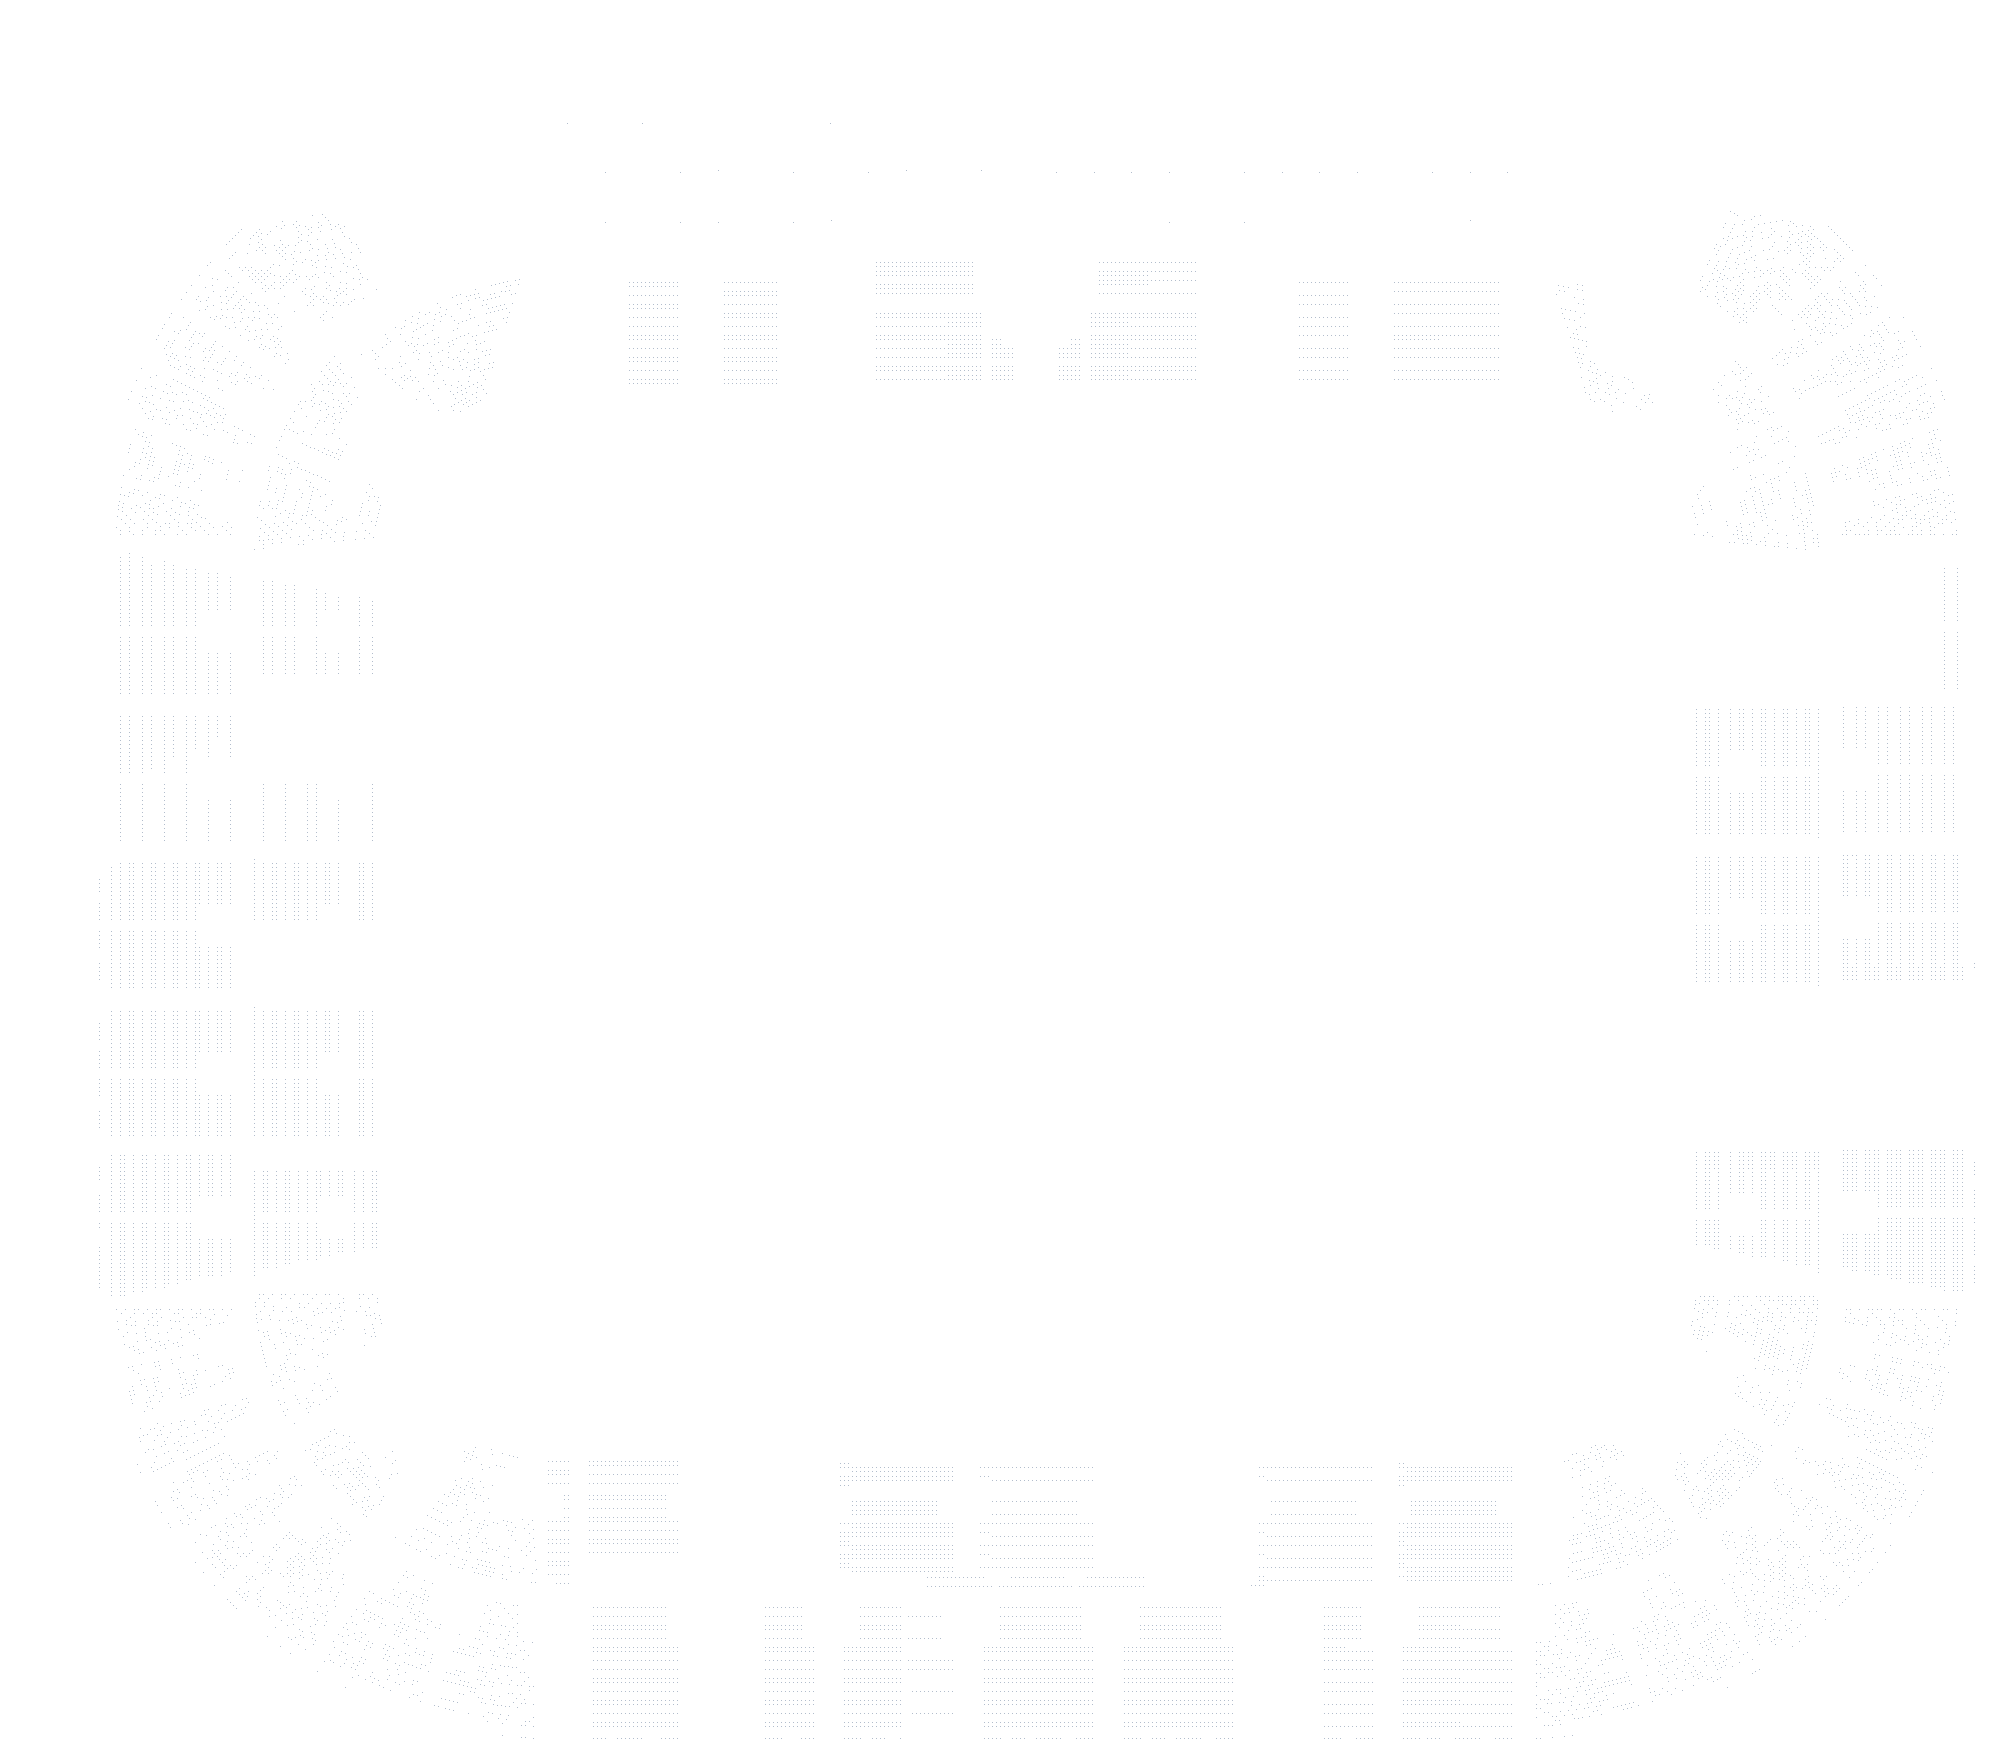
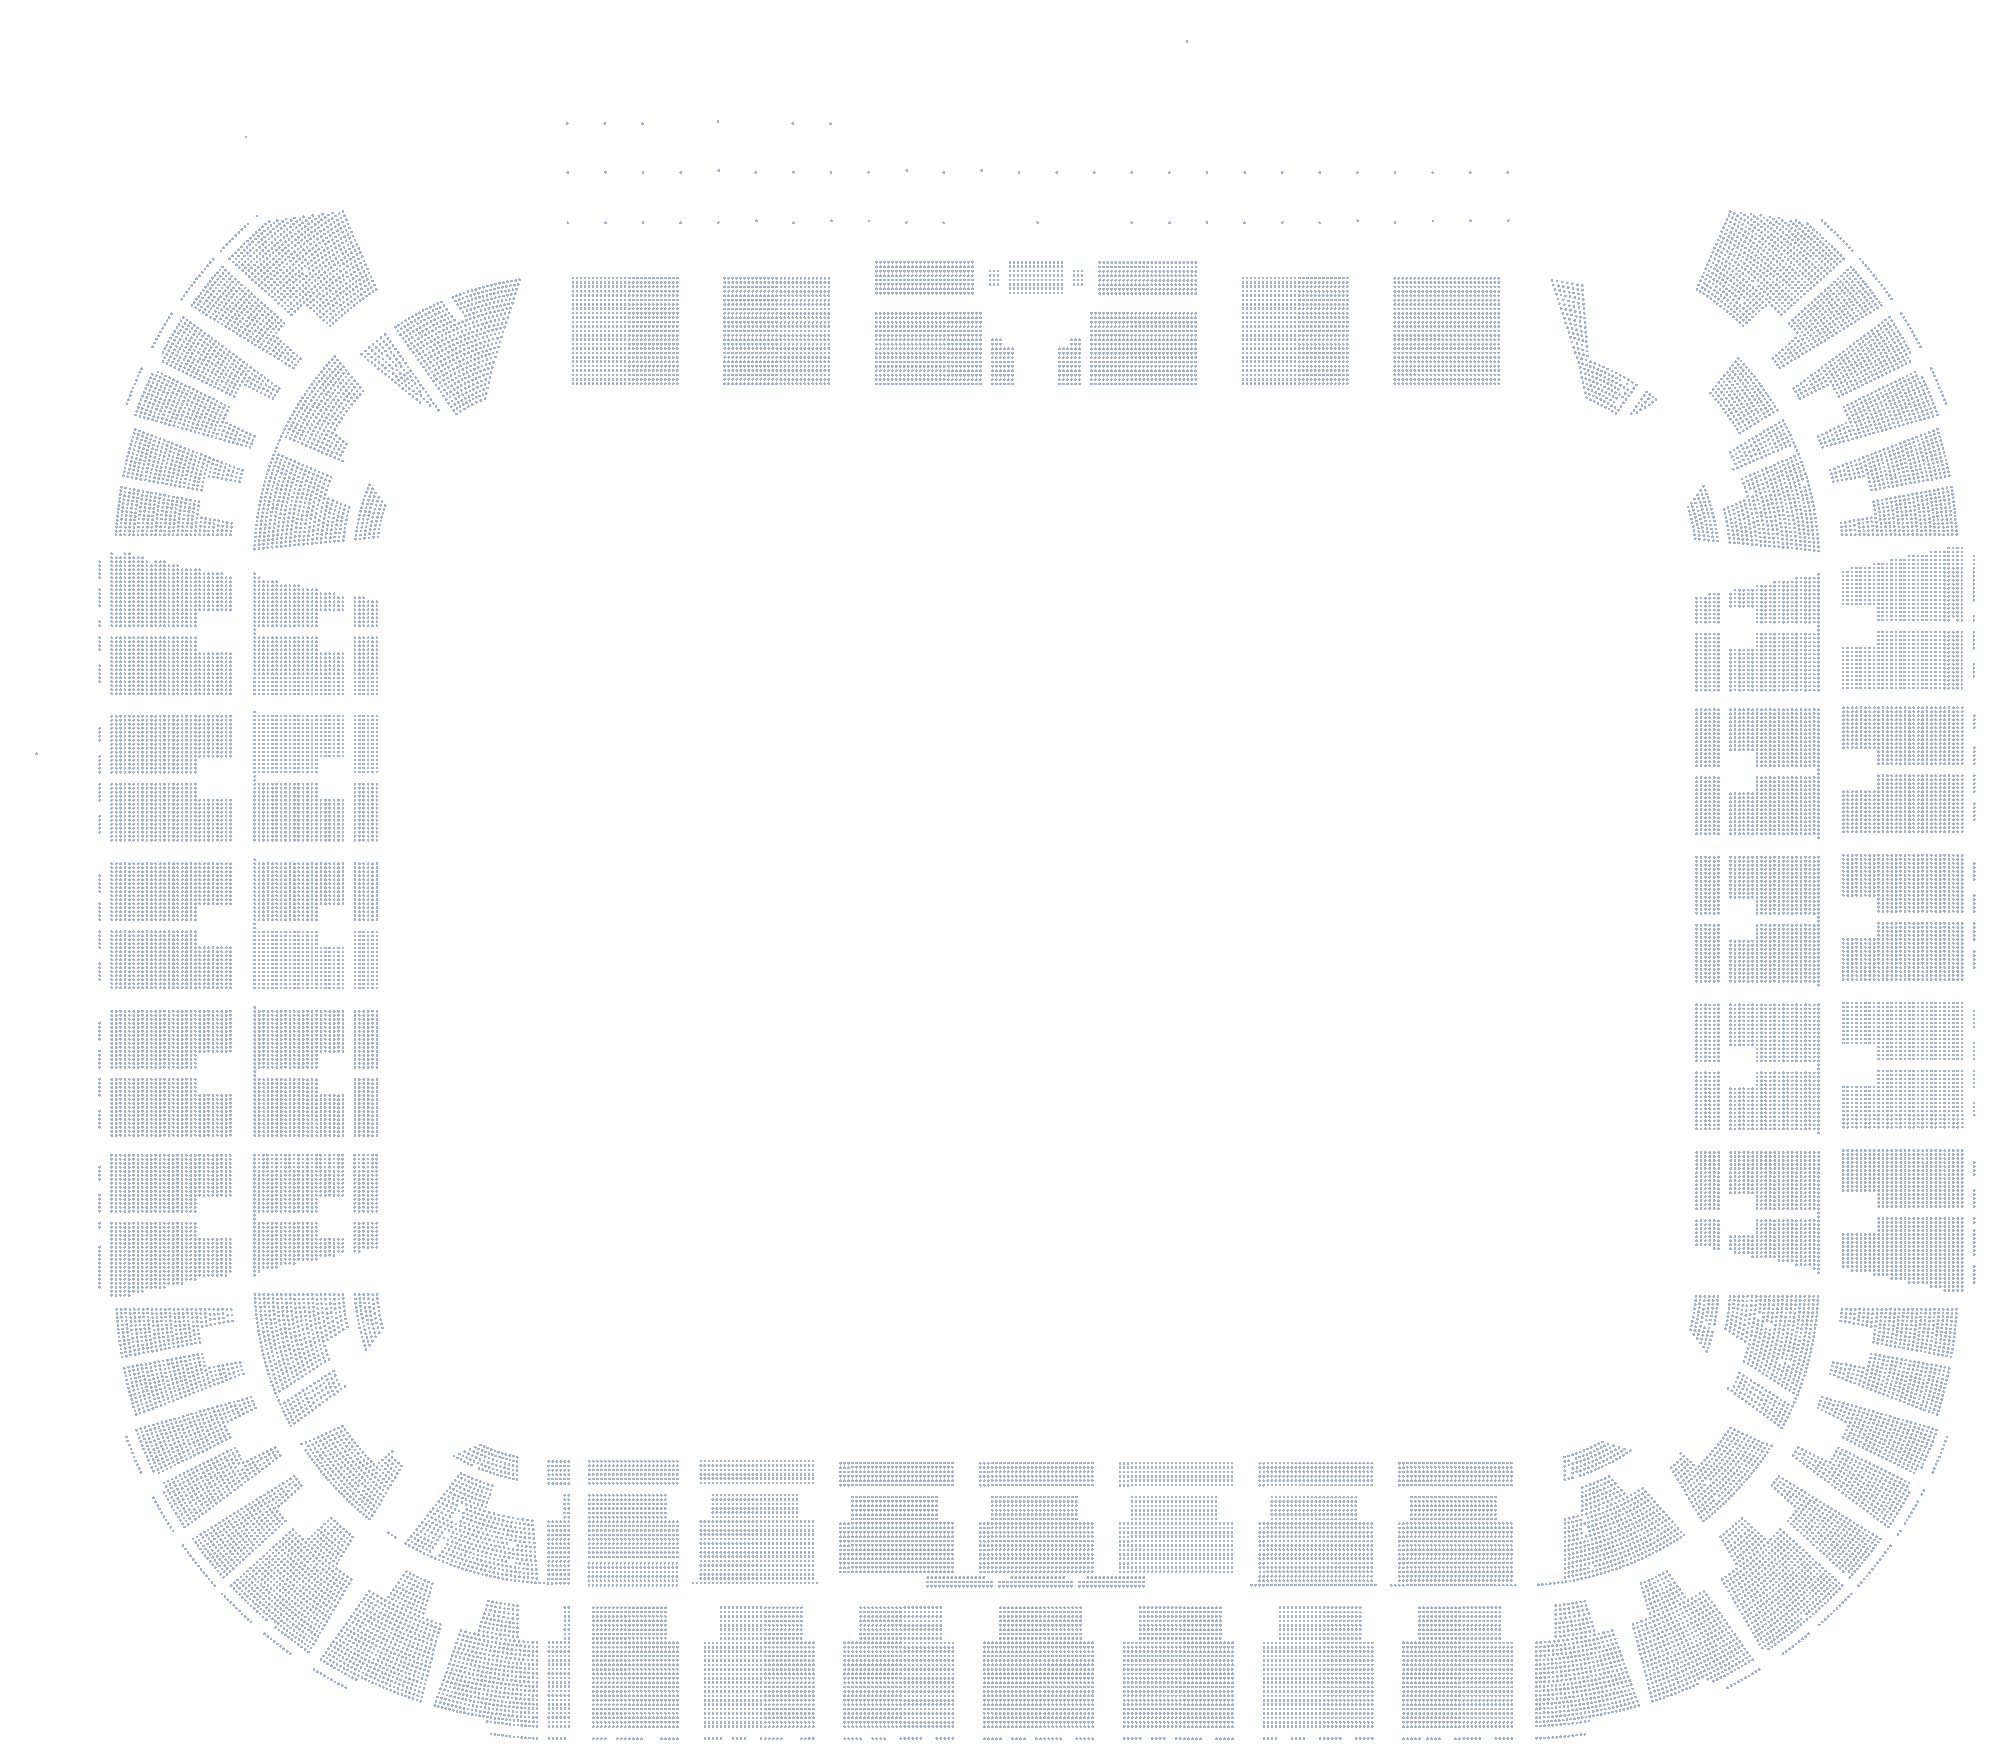
fix: Лукойл — одна схема как Portalbilet, без слоя номеров SVG
Срезаем 4k цифр мест из pbilet-SVG, чашу рисуем плотнее, canvas включается по PNG без двойного DOM-слоя.

diff --git a/frontend/src/components/tickets/TicketHallInteractiveBlock.tsx b/frontend/src/components/tickets/TicketHallInteractiveBlock.tsx
@@ -10,6 +10,7 @@ import {
   seatMapKey,
   sectorMatchScore,
   stripSvgSeatCirclesForBackdrop,
+  stripNumericSvgSeatLabels,
   capSvgIntrinsicRasterSize,
   STADIUM_LAYER_CSS_MAX_PX,
   type OfferLike,
@@ -882,13 +883,21 @@ export function TicketHallInteractiveBlock({
       (layoutMode === 'auto' && nativeSeats.length >= 2));
 
   const svgHtmlSafe = useMemo(() => {
-    const raw = !useSvgNative
+    let raw = !useSvgNative
       ? hallSvgHtml
       : svgGeometryFromParsedCircles && nativeProcessed?.svgHtml
         ? nativeProcessed.svgHtml
         : hallSvgHtml;
+    if (useHallBackgroundRaster) raw = stripNumericSvgSeatLabels(raw);
     return isStadiumScaleHallLayout(layoutJson) ? capSvgIntrinsicRasterSize(raw) : raw;
-  }, [hallSvgHtml, layoutJson, nativeProcessed, svgGeometryFromParsedCircles, useSvgNative]);
+  }, [
+    hallSvgHtml,
+    layoutJson,
+    nativeProcessed,
+    svgGeometryFromParsedCircles,
+    useHallBackgroundRaster,
+    useSvgNative,
+  ]);
 
   /** viewBox от отображаемого SVG (после processHallSvgForNative). */
   const svgViewBox = useMemo(
@@ -1371,7 +1380,9 @@ export function TicketHallInteractiveBlock({
 
   /** Растр SVG подложки на canvas готов — только тогда скрываем DOM-SVG (иначе подложка «пропадает», остаются точки). */
   const [canvasBackdropReady, setCanvasBackdropReady] = useState(false);
-  const useCanvasCompositing = stadiumCanvasEnabled && canvasBackdropReady;
+  const [hallRasterReady, setHallRasterReady] = useState(false);
+  const useCanvasCompositing =
+    stadiumCanvasEnabled && (canvasBackdropReady || (useHallBackgroundRaster && hallRasterReady));
 
   useEffect(() => {
     if (!useCanvasCompositing) return;
@@ -1441,11 +1452,13 @@ export function TicketHallInteractiveBlock({
   useEffect(() => {
     if (!useHallBackgroundRaster || !hallBackgroundRasterUrl) {
       hallRasterImageRef.current = null;
+      setHallRasterReady(false);
       setHallRasterVersion((v) => v + 1);
       return;
     }
 
     hallRasterImageRef.current = null;
+    setHallRasterReady(false);
     const img = new Image();
     img.decoding = 'async';
     let cancelled = false;
@@ -1459,11 +1472,13 @@ export function TicketHallInteractiveBlock({
       if (cancelled) return;
       const ok = img.naturalWidth > 0 && img.naturalHeight > 0;
       hallRasterImageRef.current = ok ? img : null;
+      setHallRasterReady(ok);
       finalize();
     };
     img.onerror = () => {
       if (cancelled) return;
       hallRasterImageRef.current = null;
+      setHallRasterReady(false);
       finalize();
     };
     img.src = hallBackgroundRasterUrl;
@@ -2389,6 +2404,7 @@ export function TicketHallInteractiveBlock({
     zoom,
     pan.x,
     pan.y,
+    useCanvasCompositing,
   ]);
 
   const rootClass =
@@ -2437,7 +2453,7 @@ export function TicketHallInteractiveBlock({
         role="presentation"
       >
         <div ref={hoverProbeRef} className={styles.hoverProbeAnchor} aria-hidden="true" />
-        {useCanvasCompositing ? <canvas ref={canvasRef} className={styles.stadiumCanvas} aria-hidden="true" /> : null}
+        {stadiumCanvasEnabled ? <canvas ref={canvasRef} className={styles.stadiumCanvas} aria-hidden="true" /> : null}
         <div ref={panInnerRef} className={styles.panInner}>
           <div
             ref={layersRef}
@@ -2453,7 +2469,7 @@ export function TicketHallInteractiveBlock({
               // eslint-disable-next-line react/no-danger
               dangerouslySetInnerHTML={{ __html: svgHtmlSafe }}
             />
-            {useHallBackgroundRaster && !useCanvasCompositing && hallBackgroundRasterUrl ? (
+            {useHallBackgroundRaster && !stadiumCanvasEnabled && hallBackgroundRasterUrl ? (
               <img
                 className={styles.hallBackgroundRaster}
                 src={hallBackgroundRasterUrl}

diff --git a/backend/services/lukoilArenaFootballStageMap.js b/backend/services/lukoilArenaFootballStageMap.js
@@ -49,6 +49,32 @@ export function lukoilArenaHallSize(layout, svgMarkup) {
   return { hallW: LUKOIL_ARENA_HALL_WIDTH, hallH: LUKOIL_ARENA_HALL_HEIGHT };
 }
 
+/**
+ * Portalbilet не кладёт 4k номеров мест в обзор: цифры 1…N — отдельный слой,
+ * который у нас двоится с серой чашей и тормозит DOM (1.2MB SVG).
+ * Подписи секторов/лож/трибун оставляем.
+ */
+export function stripNumericSvgSeatLabels(svgMarkup) {
+  const src = String(svgMarkup || '');
+  if (!src.includes('<text')) return src;
+  let out = src.replace(/<text\b[\s\S]*?<\/text>/gi, (block) => {
+    const tspans = [...block.matchAll(/<tspan\b[^>]*>([\s\S]*?)<\/tspan>/gi)]
+      .map((m) => String(m[1]).replace(/<[^>]+>/g, '').replace(/\s+/g, ' ').trim())
+      .filter(Boolean);
+    const labels = tspans.length
+      ? tspans
+      : [block.replace(/<[^>]+>/g, '').replace(/\s+/g, ' ').trim()].filter(Boolean);
+    if (labels.length > 0 && labels.every((t) => /^\d{1,3}$/.test(t))) return '';
+    return block;
+  });
+  let prev = '';
+  while (out !== prev) {
+    prev = out;
+    out = out.replace(/<g\b[^>]*>\s*<\/g>/gi, '');
+  }
+  return out;
+}
+
 /** pbilet coordinates содержат хвост за viewBox (~216%) — выкидываем, иначе чаша «съезжает». */
 export function clipHallCoordinateCloud(cloud, maxPct = 102) {
   if (!Array.isArray(cloud)) return [];
@@ -116,6 +142,7 @@ export function slimLukoilArenaStageMapForClient(row) {
   } = layout;
   return {
     ...row,
+    svg_markup: stripNumericSvgSeatLabels(row.svg_markup),
     layout_json: {
       ...rest,
       pbilet: pb,

diff --git a/backend/tests/lukoilArenaSellableGeodesy.test.js b/backend/tests/lukoilArenaSellableGeodesy.test.js
@@ -5,6 +5,7 @@ import {
   clipHallCoordinateCloud,
   lukoilArenaHallSize,
   slimLukoilArenaStageMapForClient,
+  stripNumericSvgSeatLabels,
 } from '../services/lukoilArenaFootballStageMap.js';
 import { LUKOIL_ARENA_STAGE_MAP_KEY } from '../utils/footballStadiumRepertoires.js';
 
@@ -81,4 +82,21 @@ test('slimLukoilArenaStageMapForClient drops 47k cloud and unlocks stadium zoom'
   assert.equal(slim.layout_json.sellableSeats.length, 1);
   assert.equal(slim.layout_json.seats.length, 1);
   assert.equal(slim.layout_json.pbilet.hallWidth, 9951);
+});
+
+test('stripNumericSvgSeatLabels drops seat digits, keeps sector titles', () => {
+  const svg = `
+    <svg viewBox="0 0 100 100">
+      <g id="1" font-size="8"><text><tspan x="0" y="7">23</tspan></text></g>
+      <g id="Сектор-D121"><text id="Сектор-D121"><tspan x="0" y="12">Сектор D121</tspan></text></g>
+    </svg>`;
+  const out = stripNumericSvgSeatLabels(svg);
+  assert.equal(out.includes('>23<'), false);
+  assert.equal(out.includes('Сектор D121'), true);
+  const slim = slimLukoilArenaStageMapForClient({
+    svg_markup: svg,
+    layout_json: { sellableSeats: [], allSeatCoordinates: [] },
+  });
+  assert.equal(String(slim.svg_markup).includes('Сектор D121'), true);
+  assert.equal(String(slim.svg_markup).includes('>23<'), false);
 });

diff --git a/frontend/src/utils/svgNativeSeatLayout.ts b/frontend/src/utils/svgNativeSeatLayout.ts
@@ -215,6 +215,28 @@ function rewriteSvgWidthHeight(svg: string, width: number, height: number): stri
   return out;
 }
 
+/** Убрать номера мест «1»…«99» из SVG (Лукойл pbilet). Секторы/ложи не трогаем. */
+export function stripNumericSvgSeatLabels(html: string): string {
+  const src = html || '';
+  if (!src.includes('<text')) return src;
+  let out = src.replace(/<text\b[\s\S]*?<\/text>/gi, (block) => {
+    const tspans = [...block.matchAll(/<tspan\b[^>]*>([\s\S]*?)<\/tspan>/gi)]
+      .map((m) => String(m[1]).replace(/<[^>]+>/g, '').replace(/\s+/g, ' ').trim())
+      .filter(Boolean);
+    const labels = tspans.length
+      ? tspans
+      : [block.replace(/<[^>]+>/g, '').replace(/\s+/g, ' ').trim()].filter(Boolean);
+    if (labels.length > 0 && labels.every((t) => /^\d{1,3}$/.test(t))) return '';
+    return block;
+  });
+  let prev = '';
+  while (out !== prev) {
+    prev = out;
+    out = out.replace(/<g\b[^>]*>\s*<\/g>/gi, '');
+  }
+  return out;
+}
+
 /**
  * Сжать intrinsic width/height (viewBox не трогаем).
  * Иначе `new Image()` + DOM-SVG концерта Лужников декодируют 11k×9k.

diff --git a/frontend/src/utils/svgNativeSeatLayout.test.ts b/frontend/src/utils/svgNativeSeatLayout.test.ts
@@ -7,6 +7,7 @@ import {
   parseLayoutSeatPositions,
   parsePreferLayoutSeatPositions,
   sectorMatchScore,
+  stripNumericSvgSeatLabels,
   stripSvgSeatCirclesForBackdrop,
 } from './svgNativeSeatLayout';
 
@@ -107,5 +108,17 @@ describe('svgNativeSeatLayout', () => {
     expect(out).not.toMatch(/#636466/i);
     expect(out).not.toMatch(/place-name/);
     expect(out).toMatch(/#FFFFFF/i);
+  });
+
+  it('strips numeric seat labels and keeps sector names', () => {
+    const src =
+      '<svg xmlns="http://www.w3.org/2000/svg" viewBox="0 0 100 100">' +
+      '<g id="1" font-size="8"><text><tspan x="0" y="7">12</tspan></text></g>' +
+      '<g id="Сектор-D121"><text><tspan x="0" y="12">Сектор D121</tspan></text></g>' +
+      '</svg>';
+    const out = stripNumericSvgSeatLabels(src);
+    expect(out).not.toMatch(/>12</);
+    expect(out).toContain('Сектор D121');
+    expect(out).not.toMatch(/id="1"/);
   });
 });

diff --git a/backend/scripts/render-lukoil-arena-gray-bowl-png.js b/backend/scripts/render-lukoil-arena-gray-bowl-png.js
@@ -88,8 +88,8 @@ async function main() {
 
   const outH = Math.max(1, Math.round((HALL_H / HALL_W) * OUT_W));
   const scalePx = OUT_W / HALL_W;
-  const r = Math.max(0.5, Math.min(1.75, scalePx * 3.6));
-  const rgba = [148, 163, 184, 183];
+  const r = Math.max(1.15, Math.min(2.2, scalePx * 7));
+  const rgba = [148, 163, 184, 210];
 
   const buf = Buffer.alloc(OUT_W * outH * 4, 0);
   const coords = new Float32Array(dots.length * 2);
@@ -97,7 +97,7 @@ async function main() {
     const dot = dots[i];
     coords[i * 2] = dot.xPct;
     coords[i * 2 + 1] = dot.yPct;
-    paintDisc(buf, OUT_W, outH, (dot.xPct / 100) * OUT_W, (dot.yPct / 100) * outH, r * 0.5, rgba);
+    paintDisc(buf, OUT_W, outH, (dot.xPct / 100) * OUT_W, (dot.yPct / 100) * outH, r, rgba);
   }
 
   const dotsOut = out.replace(/\.png$/i, '-dots.bin');
